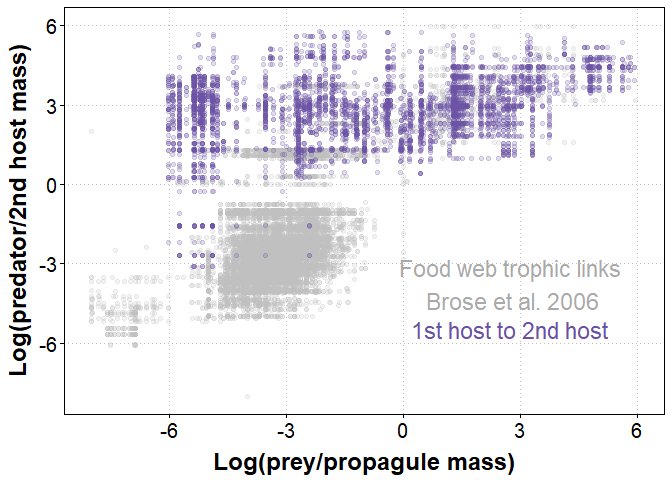
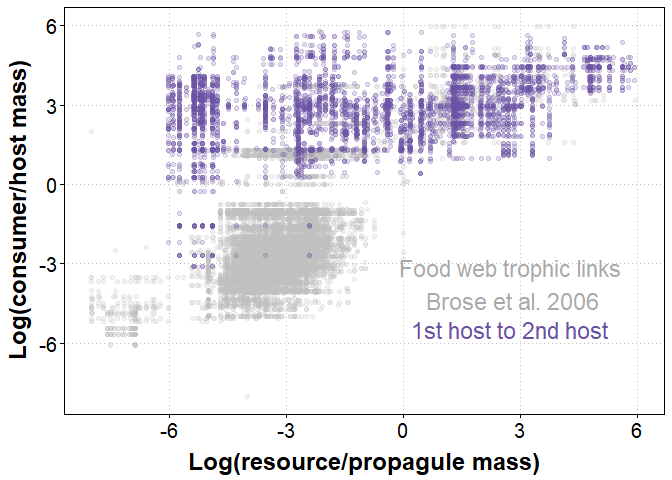
Revised explanatory text of analysis

Changed region(s): [[0.0, 0.0938, 0.0625, 0.7812], [0.2812, 0.9375, 0.8125, 1.0]]

diff --git a/propagule_transmission.md b/propagule_transmission.md
@@ -1,9 +1,9 @@
 Parasite propagule transmission
 ================
 
-**Background**: Here I examine how the propagules of parasitic worms fit into food webs. I combine data on [parasite life cycles](http://onlinelibrary.wiley.com/doi/10.1002/ecy.1680/suppinfo), propagule sizes, host body masses, and [size-structured food webs](http://onlinelibrary.wiley.com/doi/10.1890/0012-9658(2006)87%5B2411:CBRINF%5D2.0.CO;2/full). I then plot the data to gauge how propagule-consumer size relationships compare to prey-predator ones.
+**Background**: I examine how the propagules of parasitic worms fit into food webs. I combine data on [parasite life cycles](http://onlinelibrary.wiley.com/doi/10.1002/ecy.1680/suppinfo), propagule sizes, host body masses, and [size-structured food webs](http://onlinelibrary.wiley.com/doi/10.1890/0012-9658(2006)87%5B2411:CBRINF%5D2.0.CO;2/full). I then plot the data to gauge how propagule-consumer size relationships compare to prey-predator ones. My goal is to understand why certain hosts are the first hosts in parasite complex life cycles, as opposed to second hosts or the only hosts in a simple life cycle.
 
-**Analysis** First, import the libraries and host data.
+**Analysis** First, import the libraries and host data from the life cycle database.
 
 ``` r
 library(dplyr)
@@ -80,7 +80,7 @@ label.trophic.links <- function(species) {
 }
 ```
 
-Now we loop through all the parasite species, create the trophic links in its life cycle, and then collate them together into a large data table.
+Now we loop through all the parasite species, create the trophic links in the life cycle, and then collate them together into a large trophic links data table.
 
 ``` r
 # loop through parasite species to get trophic links dataset
@@ -113,7 +113,7 @@ Import host mass data (~20,000 species), compiled from a variety of sources, and
 # load size data
 host.size <- read.csv(file="collated_host_mass_data.csv", header = TRUE, sep=",")
 
-# host size either a length or a mass;restrict to just masses
+# host size either a length or a mass; restrict to just masses
 host.size <- filter(host.size, !is.na(body.mass))%>%
   select(binomial, body.mass)%>%
   group_by(binomial)%>%
@@ -154,7 +154,7 @@ dataL <- mutate(dataL, biovolume = biovolume * .0011)%>% # convert mm3 to g (ass
   select(Parasite.species, Stage, Egg.hatch, biovolume)
 ```
 
-Several measurements may be given for a parasite propagule, such as the egg, embryo, or hatched larave. We should extract the propagules measurments respresenting what is ingested by the consumer. That is the egg if it does not hatch or the free larva if the egg does hatch.
+Several measurements may be given for a parasite propagule, such as the egg, embryo, or hatched larave. We should extract the propagules measurments respresenting what is ingested by the consumer. This is the egg if it does not hatch or the free larva if it does hatch.
 
 ``` r
 #distinguish species transmitted by either eggs or hatched propagules
@@ -182,7 +182,7 @@ dataL <- filter(dataL, is.na(propagule.selector))%>%
   filter(!is.nan(biovolume))
 ```
 
-Then we add it to the trophic link dataset.
+And we add it to the trophic link dataset.
 
 ``` r
 # match propagule masses to parasite species in trophic link data
@@ -192,7 +192,7 @@ eggies <- eggies[which(tl.out$res=='propagule')]
 tl.out$res.mass[which(tl.out$res=='propagule')] <- eggies
 ```
 
-To compare how parasite-exploited trophic links compare to the normal links in food-webs, we import a database of food web links [(Brose et al. 2006)](http://onlinelibrary.wiley.com/doi/10.1890/0012-9658(2006)87%5B2411:CBRINF%5D2.0.CO;2/full). The data is mostly predator-prey, and quite a lot of mass data is missing (4400 of 16800 links, ~ 26%)
+To compare how parasite-exploited trophic links compare to the normal links in food-webs, we import a database of food web links [(Brose et al. 2006)](http://onlinelibrary.wiley.com/doi/10.1890/0012-9658(2006)87%5B2411:CBRINF%5D2.0.CO;2/full). The data is mostly predator-prey links, and quite a lot of mass data is missing (4400 of 16800 links, ~ 26%)
 
 ``` r
 brose<-read.csv(file="Brose_bodysizes_2008_DB.csv", header = TRUE,sep = ",")
@@ -209,7 +209,7 @@ ggplot(data = brose,
 
 ![](propagule_transmission_files/figure-markdown_github/unnamed-chunk-12-1.png)
 
-The links with missing mass data nonetheless have consumer-resource mass ratios. Brose et al. say that these masses were calculated from length allometries, but I am unsure about how to back calculate masses, as the allometric relationships were not given. The links with missing masses show a wider spread in mass ratios, especially large ratios (i.e. big consumers, small resources). Thus, grazers or detritivores are probably overrepresented here.
+The links with missing mass data nonetheless have consumer-resource mass ratios. Brose et al. say that these masses were calculated from length allometries, but I am unsure about how to back calculate masses, as the allometric relationships were not given. The links with missing masses show a wider spread in mass ratios, especially large ratios (i.e. big consumers, small resources). Thus, grazing or detritivorous interactions are probably overrepresented among the missing values.
 
 ``` r
 # look at missing data
@@ -223,7 +223,7 @@ ggplot(brose, aes(x = factor(missing_mass), y = log10(Consumer.resource.body.mas
 
 For the sake of simplicity, we'll ignore the missing mass data for now, but we should keep it in mind, and maybe consider larger [datasets](http://www.globalbioticinteractions.org/about.html) in the future.
 
-Let's eliminate a few interaction types (e.g. parasitoid) that are obviously not exploited by trophically-transmitted helminths and then combine the food web and parasite trophic links data into a single data frame for plotting.
+Let's eliminate a few interaction types that are obviously not exploited by trophically-transmitted helminths (e.g. parasitoid) and then combine the food web and parasite trophic links data into a single data frame for plotting.
 
 ``` r
 # remove certain feeding type
@@ -251,14 +251,14 @@ theme.o <- theme_update(axis.text = element_text(colour="black", size = 15),
                         panel.background= element_rect(fill = NA))
 ```
 
-Now, we'll create a series of plots with parasite data overlaid on the food web data. The basic plot is consumer/predator size on the y-axis and resource/prey size on the x-axis. First, we plot links where the parasite propagule is transmitted to the 1st host. Parasite propagules are tiny, but they infect just about anything; they cover 10 orders of magnitude on the y-axis!). The smallest ones overlap the food web data well.
+Now, we'll create a series of plots with parasite data overlaid on the food web data. The basic plot is consumer/predator size on the y-axis and resource/prey size on the x-axis. First, we plot links where the parasite propagule is transmitted to the 1st host. Parasite propagules are tiny, but they infect just about anything; they cover 10 orders of magnitude on the y-axis! The smallest ones overlap the food web data well.
 
 ``` r
 reds <- brewer.pal(9, 'Reds')[6]
 ggplot(data = filter(plot.dat, trans.step=="food web"),
        aes(x = log10(res.mass), y = log10(cons.mass))) +
   geom_point(color = "gray", alpha = 0.2) +
-  labs(x = "\nLog(prey/propagule mass)", y = "Log(predator/1st host mass)\n") +
+  labs(x = "\nLog(resource/propagule mass)", y = "Log(consumer/host mass)\n") +
   geom_point(data = filter(plot.dat, trans.step=="propagule to 1st host"), 
              aes(x = log10(res.mass), y = log10(cons.mass)),
              color = reds, alpha = 0.2) +
@@ -276,7 +276,7 @@ ggplot(data = filter(plot.dat, trans.step=="food web"),
 #export 700 x 500 px as svg; change color of part of axis titles
 ```
 
-Let's make a second version of the plot, but separate simple and complex life cycles (i.e. parasites that have one host or more than one host in their life cycle). It is clear that worms with simple cycles tend to have bigger 1st hosts.
+Let's make a second version of the plot, but separate simple and complex life cycles (i.e. parasites that have one host vs multiple hosts in their life cycle). Clearly, worms with simple cycles tend to have bigger 1st hosts.
 
 ``` r
 plot.dat <- mutate(plot.dat, lcl.cat = if_else(lcl > 1, "complex", "simple")) 
@@ -285,7 +285,7 @@ reds <- brewer.pal(9, 'Reds')[c(4,7)]
 ggplot(data = filter(plot.dat, trans.step=="food web"),
        aes(x = log10(res.mass), y = log10(cons.mass))) +
   geom_point(color = "gray", alpha = 0.2) +
-  labs(x = "\nLog(prey/propagule mass)", y = "Log(predator/1st host mass)\n") +
+  labs(x = "\nLog(resource/propagule mass)", y = "Log(consumer/host mass)\n") +
   geom_point(data = filter(plot.dat, trans.step == "propagule to 1st host"), 
              aes(x = log10(res.mass), y = log10(cons.mass), color = lcl.cat),
              alpha = 0.5) +
@@ -302,14 +302,14 @@ ggplot(data = filter(plot.dat, trans.step=="food web"),
 
 ![](propagule_transmission_files/figure-markdown_github/unnamed-chunk-17-1.png)
 
-Now imagine that complex life cycle parasites skipped their first hosts, i.e. their propagules are consumed by the second hosts instead. Now there is much less overlap between the parasite and food web data, indicating that parasite propagules are usually too small to be considered a normal food item for their hosts.
+Now imagine that complex life cycle parasites skipped their first hosts, i.e. their propagules are consumed by the second hosts instead. How likely is this? Now there is much less overlap between parasite and food web data. This indicates that parasite propagules are usually too small to be considered a normal food item for the second hosts in the life cycle, and this indirectly supports the idea that transmission to the first host is higher than to the second host. Stated in another way, the first host reduces the mortality of the propagule.
 
 ``` r
 blues <- brewer.pal(9, 'Blues')[6]
 ggplot(data = filter(plot.dat, trans.step=="food web"),
        aes(x = log10(res.mass), y = log10(cons.mass))) +
   geom_point(color = "gray", alpha = 0.2) +
-  labs(x = "\nLog(prey/propagule mass)", y = "Log(predator/1st host mass)\n") +
+  labs(x = "\nLog(resource/propagule mass)", y = "Log(consumer/host mass)\n") +
   geom_point(data = filter(plot.dat, trans.step=="propagule to 2nd host"), 
              aes(x = log10(res.mass), y = log10(cons.mass)),
              color = blues, alpha = 0.2) +
@@ -334,7 +334,7 @@ purp <- brewer.pal(9, 'Purples')[7]
 ggplot(data = filter(plot.dat, trans.step=="food web"),
        aes(x = log10(res.mass), y = log10(cons.mass))) +
   geom_point(color = "gray", alpha = 0.2) +
-  labs(x = "\nLog(prey/propagule mass)", y = "Log(predator/2nd host mass)\n") +
+  labs(x = "\nLog(resource/propagule mass)", y = "Log(consumer/host mass)\n") +
   geom_point(data = filter(plot.dat, trans.step=="1st host to 2nd host"), 
              color = purp, alpha = 0.2) +
   annotate("text", x = 2.75, y = -3.75, label = "Food web trophic links\n Brose et al. 2006",
@@ -351,9 +351,9 @@ ggplot(data = filter(plot.dat, trans.step=="food web"),
 #export 700 x 500 px as svg; change color of part of axis titles
 ```
 
-We could play with these plots, e.g. by changing the food web data to a heat map or a contour plot. But these plots are sufficient for now.
+These plots are sufficient for now, but they might be improved by changing the food web data to a heat map or a contour plot.
 
-It seems reasonable that small first hosts are both likely to eat propagules and be eaten by a 2nd host. But starting in small hosts may have a downside: longer life cycles. Let's check. First, we'll combine the host data with the body mass data. Then we can run a linear regression. There is a significant negative correlation.
+It seems like small first hosts are both likely to eat propagules and be eaten by a 2nd host. But starting in small hosts may have a downside: longer life cycles. It may take several steps from a small first host to reach a host in which it is suitable to reproduce. Let's check the relationship between first host mass and life cycle length. First, we combine the host data with the body mass data, and we run a linear regression. There is a significant negative correlation.
 
 ``` r
 lclvsprop <- left_join(dataH, host.size, by = c("Host.species" = "binomial"))%>% # add host mass
@@ -386,7 +386,7 @@ summary(lm(lcl ~ log(host.mass), filter(lclvsprop, Host.no == 1)))
     ## Multiple R-squared:  0.4389, Adjusted R-squared:  0.4378 
     ## F-statistic: 420.8 on 1 and 538 DF,  p-value: < 2.2e-16
 
-And then we visualize the correlation.
+Then we visualize the correlation. It is clearly negative, although for a given life cycle length, first host size can vary substantially.
 
 ``` r
 ggplot(filter(lclvsprop, Host.no == 1),
@@ -398,7 +398,7 @@ ggplot(filter(lclvsprop, Host.no == 1),
 
 ![](propagule_transmission_files/figure-markdown_github/unnamed-chunk-21-1.png)
 
-Propagules were consistently small. But maybe their size variation affects the type of first host. We can imagine larger propagules being more likely to be eaten by bigger consumers. Consistent with this, there is a significant positive correlation between propagule mass and 1st host mass.
+Presumably, parasites adapt to their life cycles and hosts. Thus, although parasite propagules are consistently small, maybe their size correlates with the type of first host. For example, perhaps larger propagules are more likely to be eaten by bigger consumers. Consistent with this, there is a significant positive correlation between propagule mass and 1st host mass.
 
 ``` r
 lclvsprop <- left_join(lclvsprop, dataL) # combine host size and propagule data
@@ -428,7 +428,7 @@ summary(lm(log(host.mass) ~ log(biovolume), filter(lclvsprop, Host.no == 1)))
     ## Multiple R-squared:  0.0283, Adjusted R-squared:  0.02597 
     ## F-statistic: 12.15 on 1 and 417 DF,  p-value: 0.000544
 
-When we visualize the correlation, though, we see that it is rather weak. Parasite propagules of a given size can go into hosts that range over 10 orders of magnitude in size. Thus, I am not ready to claim that propagule sizes increase when the first host is larger.
+When we visualize the correlation, though, we see that it is weak. Parasite propagules of a given size can go into hosts that range over 10 orders of magnitude in size. Thus, I am not ready to claim that propagule sizes increase when the first host is larger.
 
 ``` r
 ggplot(filter(lclvsprop, Host.no == 1),
@@ -440,7 +440,7 @@ ggplot(filter(lclvsprop, Host.no == 1),
 
 ![](propagule_transmission_files/figure-markdown_github/unnamed-chunk-23-1.png)
 
-There are 973 parasite species in the database. It is worth checking how many have 1st host size data and propagule size data. About 44% lack host size data.
+There are 973 parasite species in the life cycle database. It is worth checking how many have 1st host size data and propagule size data. About 44% lack host size data.
 
 ``` r
 lclvsprop2 <- filter(lclvsprop, Host.no == 1)%>%
@@ -453,7 +453,9 @@ table(lclvsprop2$missing_hostsize)
     ## 1st host size available        no 1st host size 
     ##                     540                     433
 
-Only 27% lack propagule size data.
+As vertebrate body sizes are more readily available than invertebrate sizes, it is likely that small first hosts are underrepresented in the consumer-resource plots above.
+
+Less propagule size data is missing. Only 27% of species lack propagule size data. The presence or absence of propagule sizes is presumably randomly distributed, because reporting these data (or not) probably does not strongly depend on propagule size.
 
 ``` r
 table(lclvsprop2$missing_propsize)
